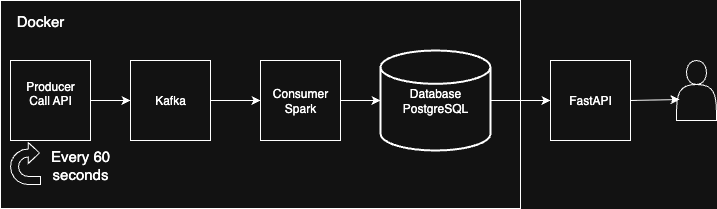
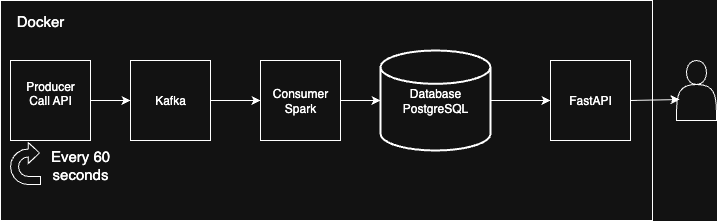
Fastapi also runs inside docker

diff --git a/weather_app/main.py b/weather_app/main.py
@@ -1,10 +1,10 @@
 from fastapi import FastAPI
 import json
 from sqlalchemy import create_engine, text
-from constants import POSTGRES_URL_LOCAL
+from constants import POSTGRES_URL
 
 app = FastAPI()
-engine = create_engine(POSTGRES_URL_LOCAL)
+engine = create_engine(POSTGRES_URL)
 
 
 @app.get("/precipitation_now")

diff --git a/README.md b/README.md
@@ -1,28 +1,17 @@
-# Assignmnent
+# Assignment
 
 ## Diagram
 
 ![Diagram](Diagram.png)
 
 
-## Docker compose
+## Instructions
 
+1. Run docker compose
 ```bash
 docker-compose up
 ```
 
-## Application to show real-time precipitation forecast for next hour
-
-1. Install packages using poetry.
-```bash
-poetry install
-
-```
-2. Inside the folder weather_app run:
-```bash
-uvicorn main:app --reload
-```
-
-3. Call the endpoint:
+2. Call the endpoint:
    http://127.0.0.1:8000/precipitation_now
 
